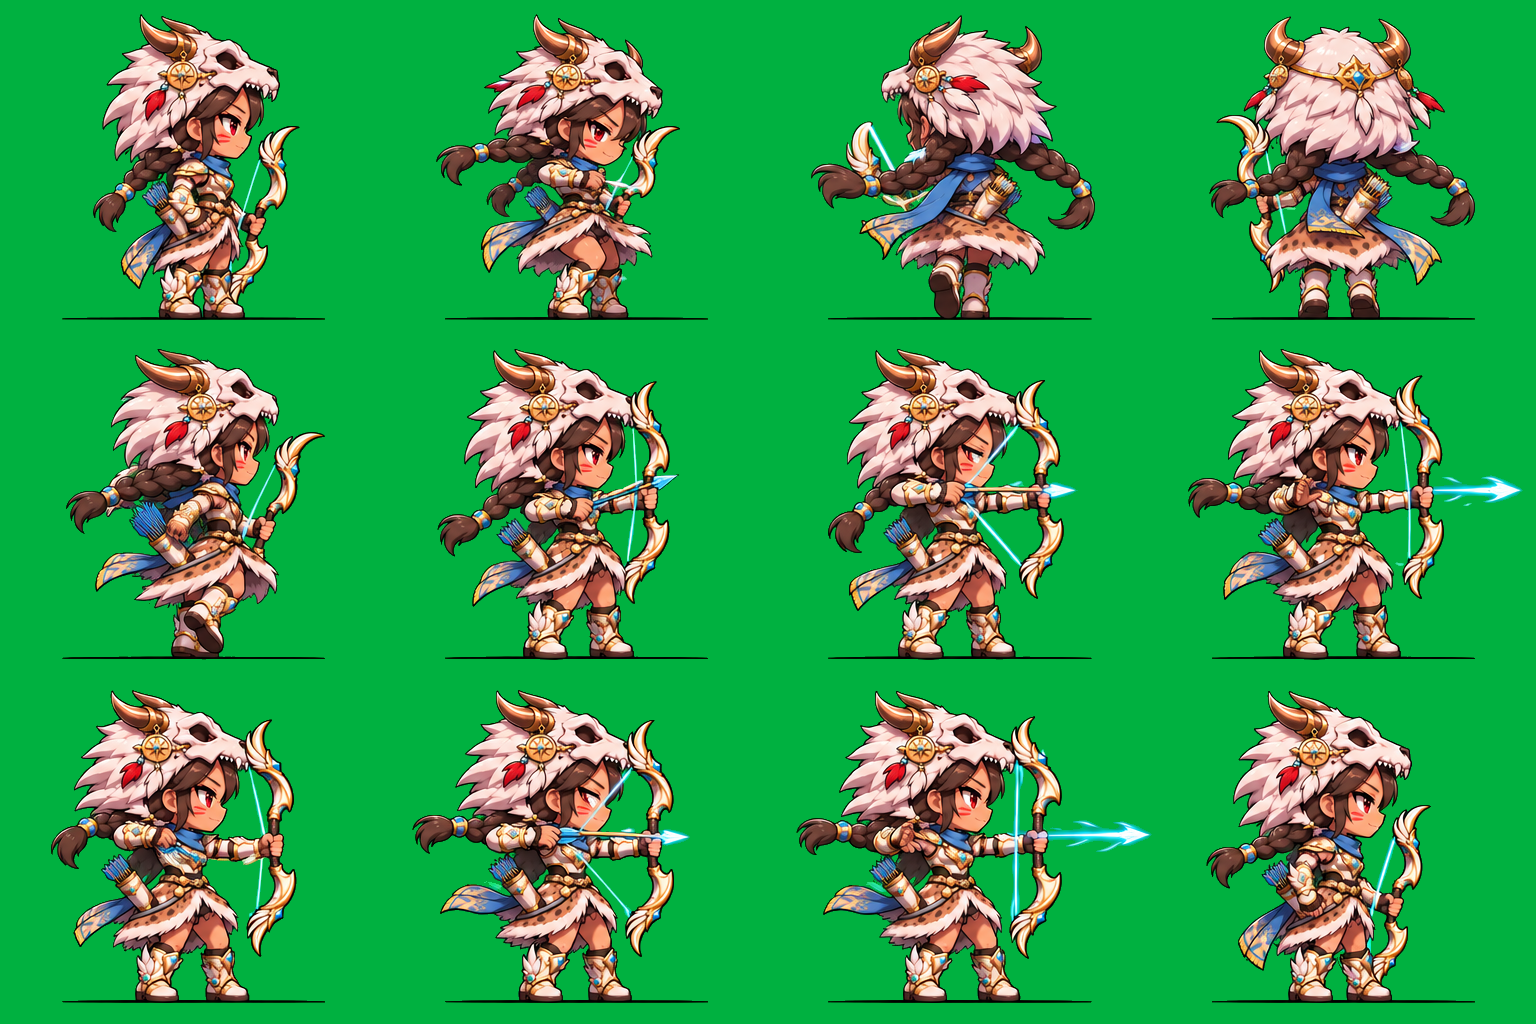
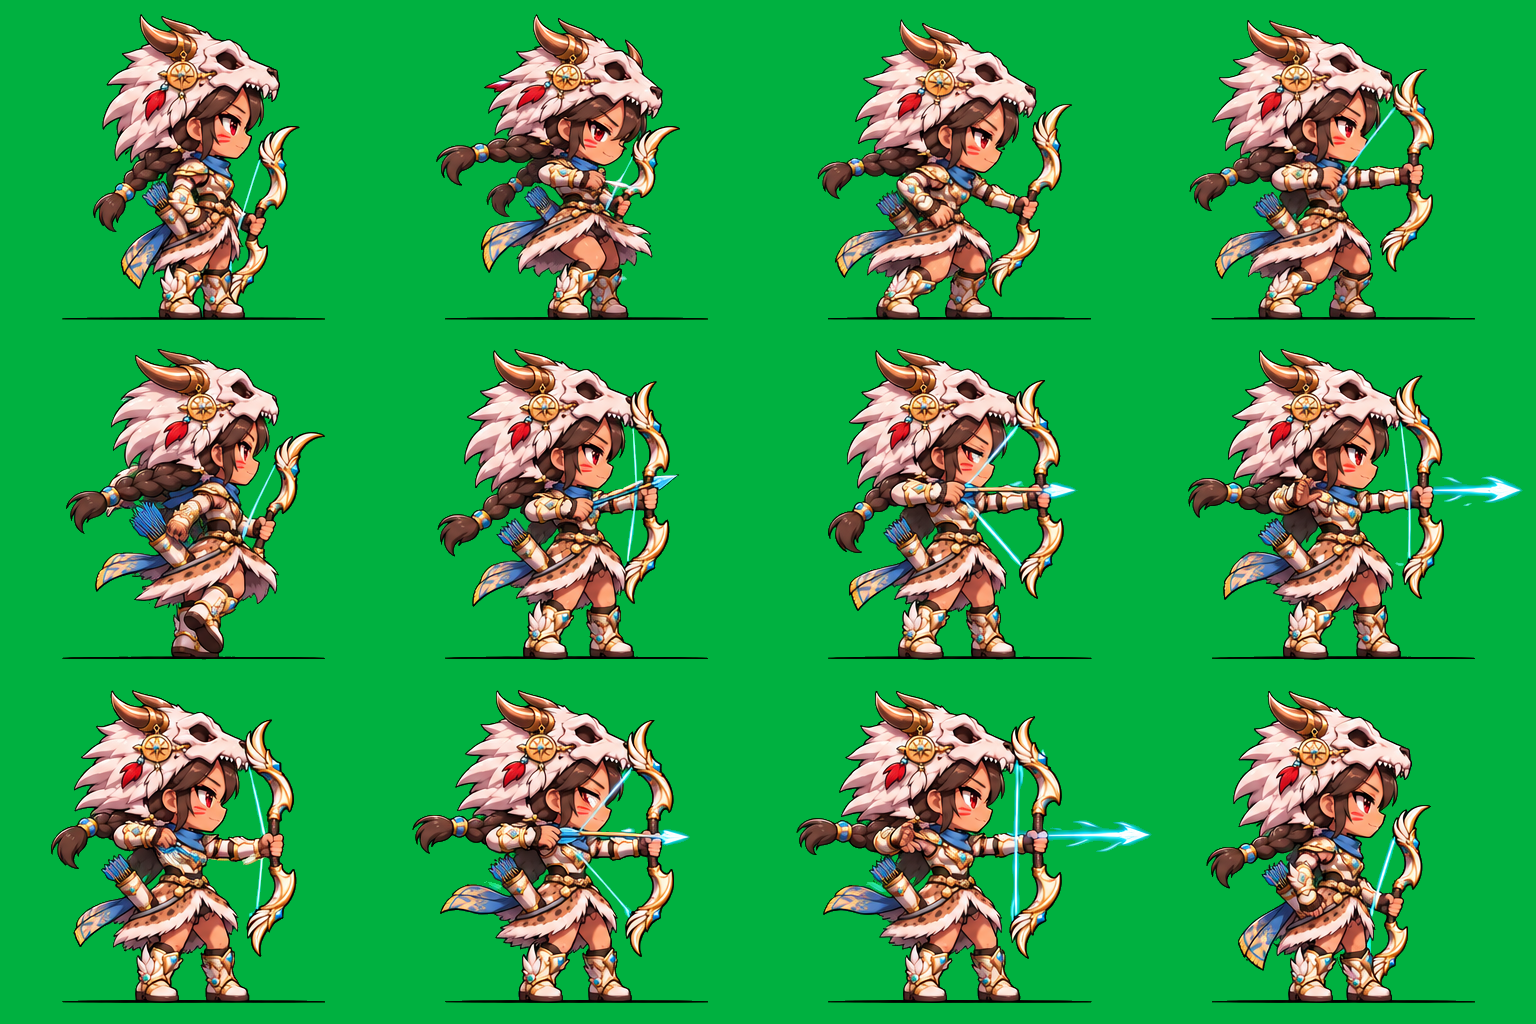
archer: Codex shot2 fix + real spin finisher (shot3_spin, 2 turns) in the combo

Changed region(s): [[0.7812, 0.0, 0.9688, 0.3125], [0.5312, 0.0, 0.7188, 0.3125]]

diff --git a/hoodfall.html b/hoodfall.html
@@ -197,7 +197,9 @@ const ARC = img(SG + 'archer.webp'), VFXR = img('art/incoming/archer/vfx_rain_sh
 // per move: ms per frame, frames where arrows leave the bow, frames held longer (the big pull before a heavy shot)
 // shot3 (owner "เอาฮิต 3 ที่มันกระโดดแล้วย่อ เปลี่ยนเป็นย่อตัวยิงก็พอ"): only the frames on the ground are played (seq), the jump frames 2-5 and 9 are left out;
 // shot1 -> shot2 spaced out a little more (owner "ฮิต 1 2 ติดกันเกินไปไหม"): a short aim hold before shot2's first arrow, its two arrows further apart
-const MV = {shot1: {ms: 42, fire: [8]}, shot2: {ms: 46, fire: [5, 8], hold: {4: 100, 7: 70}}, shot3: {ms: 50, seq: [0, 1, 1, 1, 6, 7, 8, 10, 11], fire: [1, 6], hold: {1: 150, 2: 150, 3: 150, 5: 150, 6: 110}, spin: [1, 4], turns: 2},
+const MV = {shot1: {ms: 42, fire: [8]}, shot2: {ms: 46, fire: [7, 10], hold: {5: 100, 9: 70}}, shot3: {ms: 50, seq: [0, 1, 1, 1, 6, 7, 8, 10, 11], fire: [1, 6], hold: {1: 150, 2: 150, 3: 150, 5: 150, 6: 110}, spin: [1, 4], turns: 2},
+  // the real spin finisher from Codex (shot3_spin.png): its 4 turning frames played twice = 2 turns (owner "2 รอบ")
+  shot3_spin: {ms: 55, seq: [0, 1, 2, 3, 4, 5, 2, 3, 4, 5, 6, 7, 8, 9, 10, 11], fire: [2, 11], hold: {1: 90, 10: 150, 11: 110}},
   skill_rain: {ms: 52, fire: [6], hold: {5: 120}}, skill_gale: {ms: 50, fire: [6], hold: {5: 200}}, skill_fan: {ms: 48, fire: [7], hold: {6: 120}},
   skill_frost: {ms: 52, fire: [5]}, skill_flip: {ms: 50, fire: [6]}, skill_wolf: {ms: 58, fire: [8], hold: {7: 320}}};
 const mvLen = (k, i) => (MV[k].hold && MV[k].hold[i]) || MV[k].ms, mvN = k => MV[k] && MV[k].seq ? MV[k].seq.length : AJ ? AJ.rows[k].n : 12;
@@ -275,7 +277,7 @@ function step(dt) {
   if (ARCHER && (keys.KeyJ || touch.a) && !P.rope) { if (!A.on) startMove('shot1'); else if (/^shot/.test(A.mv)) A.queued = true; }
   if (ARCHER && A.on) { A.t += dt * 1000; const i = mvFrame(A.mv, A.t);
     for (let f = A.fired + 1; f <= i; f++) if (MV[A.mv].fire.includes(f)) fire(A.mv, MV[A.mv].fire.indexOf(f)); A.fired = i;
-    if (A.t >= mvDur(A.mv)) { const nx = {shot1: 'shot2', shot2: 'shot3'}[A.mv]; if (A.queued && nx) startMove(nx); else A.on = false; } }
+    if (A.t >= mvDur(A.mv)) { const nx = {shot1: 'shot2', shot2: AJ && AJ.rows.shot3_spin ? 'shot3_spin' : 'shot3'}[A.mv]; if (A.queued && nx) startMove(nx); else A.on = false; } }
   stepShots(dt);
   if (!ARCHER && A.on) { const h = AC.hits[A.n]; A.t += dt * 1000; let t = A.t, i = 0; while (i < h.f.length - 1 && t >= h.ms[i]) t -= h.ms[i++];
     if (h.f[i] === h.hit && !A.hitDone) { A.hitDone = true; doHit(A.n); } if (h.f[i] !== h.hit) A.hitDone = false;
@@ -353,8 +355,8 @@ const SFXA = {bow: () => { tone(900, .06, 'triangle', .05, .5); noise(.08, .05, 
 function fire(k, n) { const f = P.face;
   if (k === 'shot1') { arrow({}); SFXA.bow(); }
   else if (k === 'shot2') { arrow({dmg: .85, y: P.y - BH * .52 + (n ? 3 : -2)}); SFXA.bow(); }
-  else if (k === 'shot3' && n === 0) { SFX.swing(); noise(.25, .06, 2500, .08); }   // the spin (owner "ฮิตท้ายหมุนตัวยิงได้ไหม")
-  else if (k === 'shot3') { arrow({dmg: 2.2, big: 1, pierce: 3, vx: f * 900, kb: f * 300, life: .7, y: P.y - BH * .45}); SFXA.big(); shake = .12; shakeAmp = 2; }
+  else if ((k === 'shot3' || k === 'shot3_spin') && n === 0) { SFX.swing(); noise(.25, .06, 2500, .08); }   // the spin (owner "ฮิตท้ายหมุนตัวยิงได้ไหม")
+  else if (k === 'shot3' || k === 'shot3_spin') { arrow({dmg: 2.2, big: 1, pierce: 3, vx: f * 900, kb: f * 300, life: .7, y: P.y - BH * .45}); SFXA.big(); shake = .12; shakeAmp = 2; }
   else if (k === 'skill_rain') { FX.push({k: 'rain', x: P.x + f * 190, y: P.y, t: 0, life: 3.1, tick: .7}); SFXA.bow(); }
   else if (k === 'skill_gale') { arrow({dmg: 2.8, big: 2, pierce: 99, vx: f * 820, kb: f * 380, life: .8}); SFXA.big(); shake = .22; shakeAmp = 3; P.vx = -f * 200; }
   else if (k === 'skill_fan') { for (let i = -2; i <= 2; i++) arrow({vy: i * 150, vx: f * (760 - Math.abs(i) * 30), dmg: .95, kb: f * 200, life: .55}); SFXA.bow(); SFXA.big(); shake = .1; }

diff --git a/tools/art/archer_cut.py b/tools/art/archer_cut.py
@@ -9,8 +9,8 @@ import json, os, sys
 import numpy as np
 from PIL import Image
 SRC, DST = 'art/incoming/archer', 'art/sidegame'
-MOVES = ['idle', 'run', 'shot1', 'shot2', 'shot3', 'jump', 'hurt', 'death', 'skill_rain', 'skill_gale', 'skill_fan', 'skill_frost', 'skill_flip', 'skill_wolf']
-SKIP = {'shot2': [2, 3]} if not os.environ.get('NOSKIP') else {}
+MOVES = ['idle', 'run', 'shot1', 'shot2', 'shot3', 'shot3_spin', 'jump', 'hurt', 'death', 'skill_rain', 'skill_gale', 'skill_fan', 'skill_frost', 'skill_flip', 'skill_wolf']
+SKIP = {}   # shot2 frames 2-3 were redrawn by Codex in side view (2026-11-15)
 BODY, OUT_K = 80, 3          # world px tall (the rabbit is ~75), stored 3x
 def key(rgb):
     r, g, b = [rgb[..., i].astype(float) for i in range(3)]

diff --git a/docs/action-game.md b/docs/action-game.md
@@ -1531,3 +1531,4 @@ Open: redo campfire / fence / firewood / fern tree (4 credits) or clean them (ow
 - Size switch in the game (owner "ให้มีซูม แบบเลือกเลย 65 80", "pc 65 ได้ แต่โทรศัพท์อาจจะต้อง 80"): button top right (left of the sound button) toggles 65 % / 80 %, a tap is remembered (`hoodfall_hs`); with no choice yet PC starts at 65 %, phones / touch screens at 80 %; `?hs=` still overrides. Owner on the finisher: "เอาท่าหมุน" = keep the spin shot (code stopgap now, Codex `shot3_spin.png` ordered).
 - Owner "ยังไม่หมุน": the spin only played on shot 3, which needed quick extra taps. Now HOLDING the attack button / J keeps shooting the whole combo (shot1 -> 2 -> spin shot 3 -> again); the spin is slower (3 x 130 ms, one full turn). Checked frame by frame with the game loop stopped: squash -> mirror -> back, wind ring.
 - Owner "2 รอบ": the finisher spin is now 2 full turns in 450 ms (`MV.shot3.turns`); GIF `art/incoming/archer/spin_combo.gif`.
+- Codex delivered (branch `codex/archer-moves`, brought in): `shot2.png` with frames 3-4 redrawn in side view (no frames skipped any more) and `shot3_spin.png` (real turn: 3/4 back, back, 3/4 front, side). Cut into `archer.webp` (row `shot3_spin`); the combo now ends with it, its 4 turning frames played twice = 2 turns (owner "2 รอบ"), whoosh on the turn, big arrow on frame 7. shot2 fire frames now 7 and 10. The old code-squash spin stays only as the fallback `shot3`. Hold-attack check: shot1 -> shot2 -> shot3_spin, no errors. GIF `art/incoming/archer/spin_combo.gif`.
